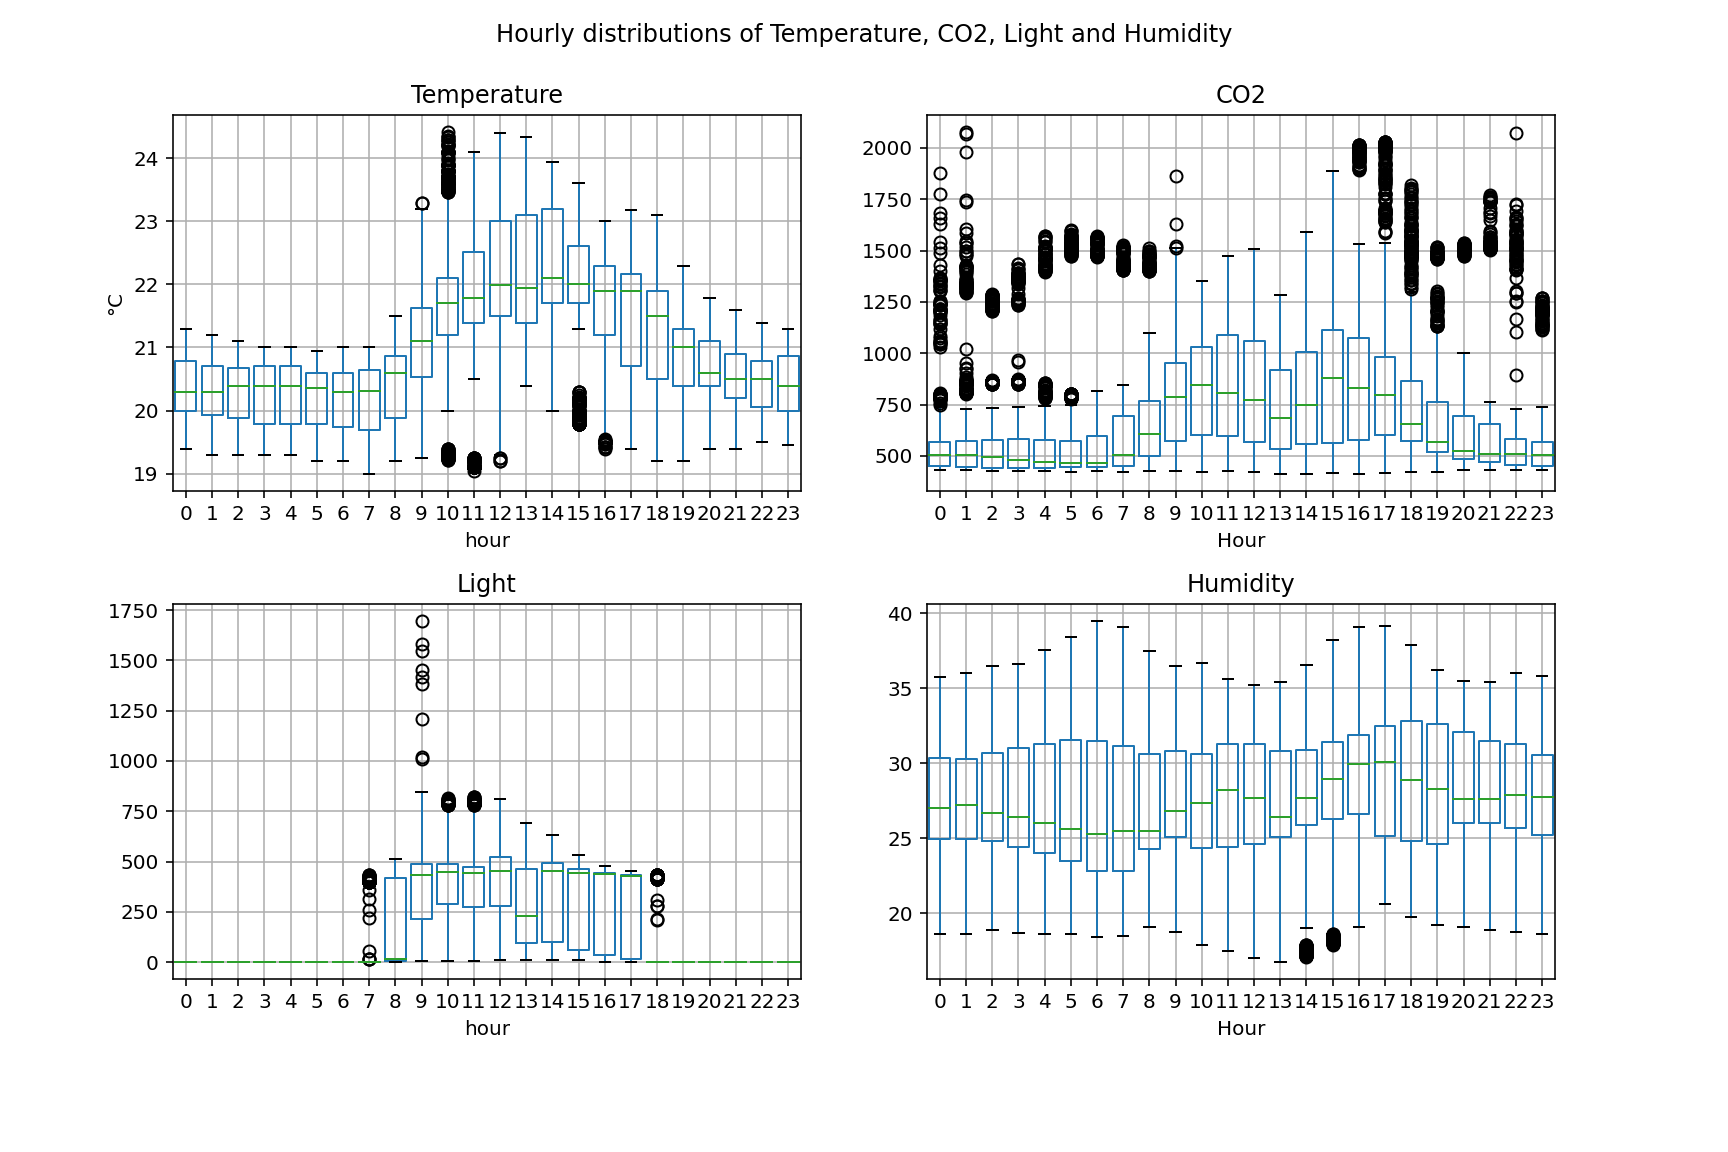
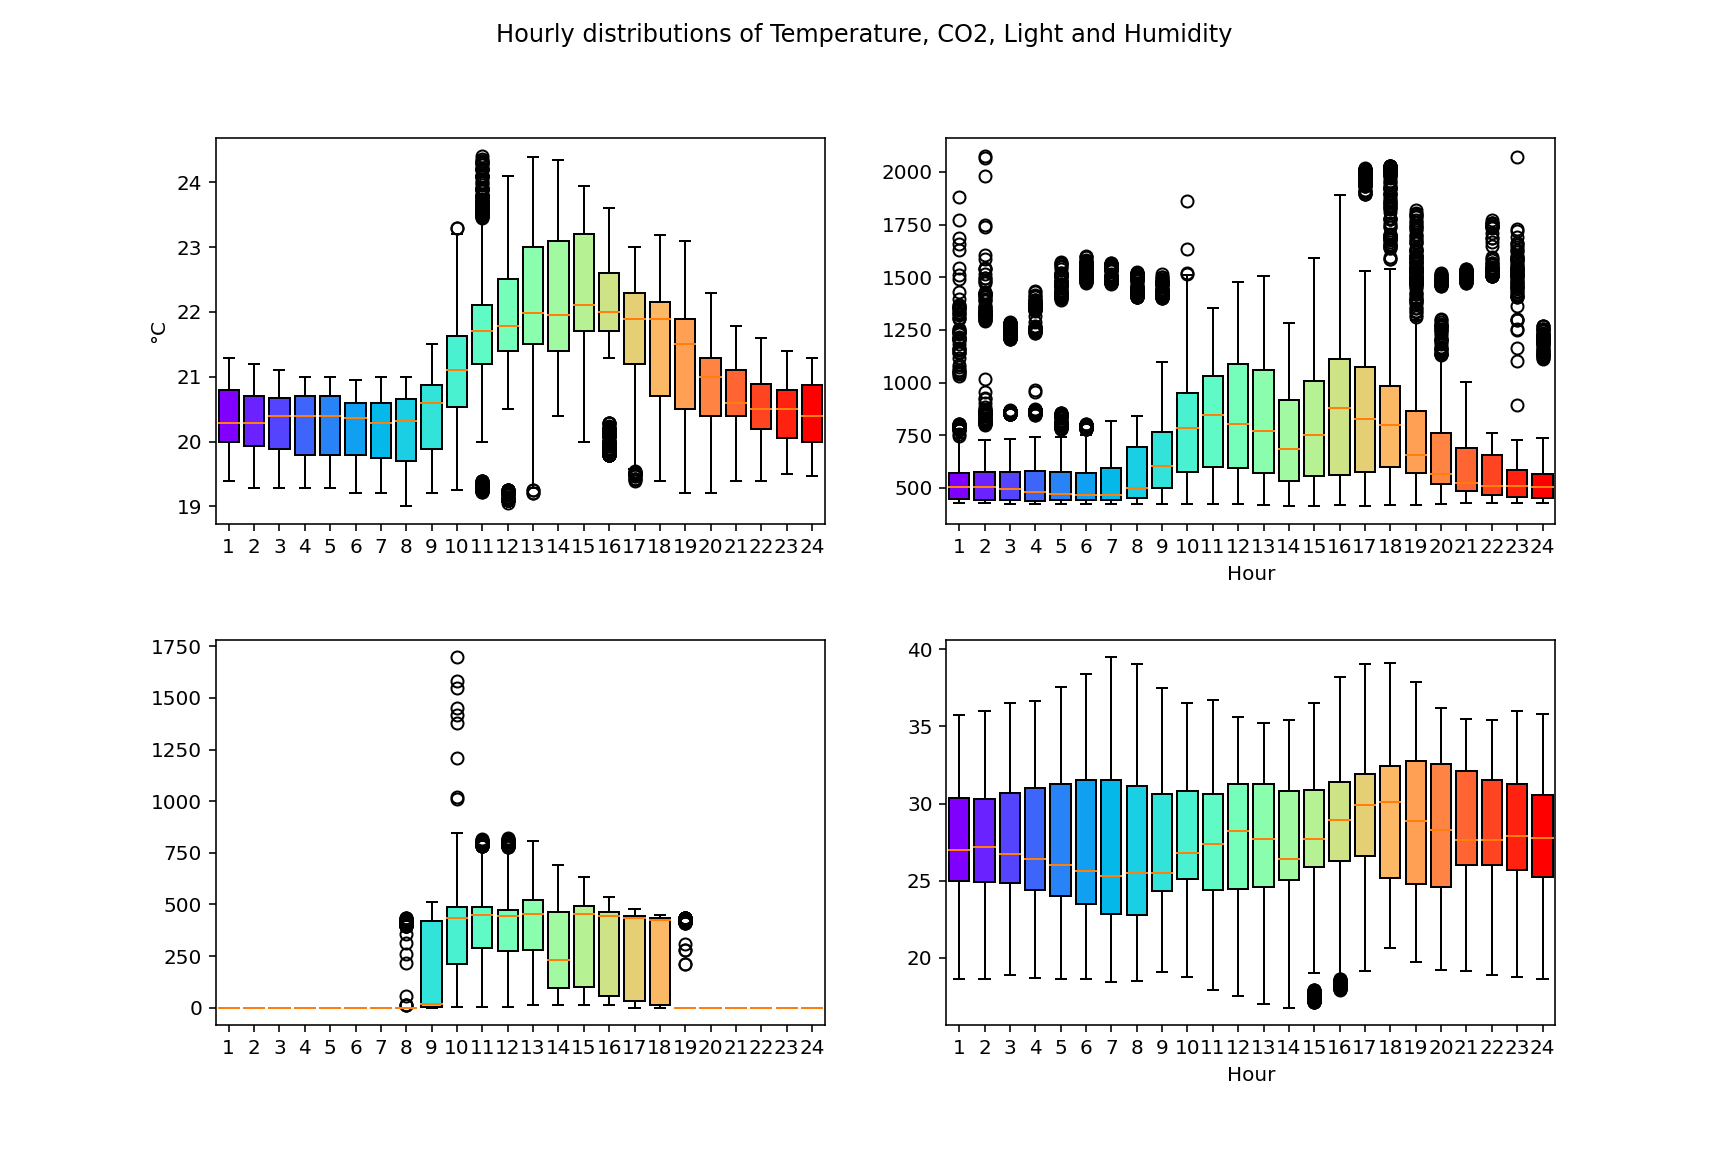
hourly boxplot with cmap

Changed region(s): [[0.0625, 0.0625, 0.9062, 0.9375]]

diff --git a/analyse_data/analyse_data.py b/analyse_data/analyse_data.py
@@ -1,6 +1,7 @@
 import pathlib
 import sys
 import pandas as pd
+import numpy as np
 from matplotlib import pyplot as plt
 from matplotlib import cm
 
@@ -15,6 +16,7 @@ def main():
 
 def plot_hourly_distributions():
     X_train, X_test_1, X_test_2, *_ = load_dataset()
+
     features = [
         'Temperature',
         'Light',
@@ -31,6 +33,7 @@ def plot_hourly_distributions():
     X = pd.concat([X_train, X_test_1, X_test_2])
 
     X['hour'] = X.index.hour
+    X = X.set_index([X.index, 'hour'])
 
     fig, axs = plt.subplots(2, 2, figsize=(12, 8))
     fig.subplots_adjust(hspace=0.3)
@@ -42,12 +45,24 @@ def plot_hourly_distributions():
         else:
             x = it-2
             y = 1
+
+        X_hourly = X[feature].unstack(level=1)
+        X_list = []
+        for x_hour in X_hourly.columns:
+            X_list.append(X_hourly[x_hour].dropna().to_numpy())
+
+        bplot = axs[x,y].boxplot(x=X_list, widths=0.8, patch_artist=True)
         axs[x,y].set_ylabel(labels[it])
-        X.boxplot(column=feature, by='hour', ax=axs[x,y], widths=0.8)
+
+        cmap = plt.cm.ScalarMappable(cmap='rainbow')
+        test_mean = [x for x in range(len(X_list))]
+        for patch, color in zip(bplot['boxes'], cmap.to_rgba(test_mean)):
+            patch.set_facecolor(color)
     
     axs[0, 1].set_xlabel('Hour')
     axs[1, 1].set_xlabel('Hour')
     fig.suptitle('Hourly distributions of Temperature, CO2, Light and Humidity')
+    
     plt.savefig(str(directory) + '/hourly_distribution.png', dpi=144)
     plt.show()
 
